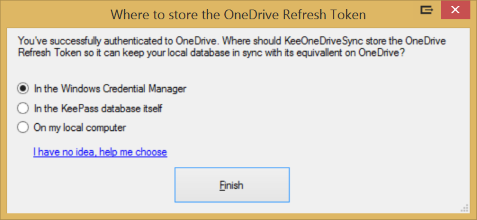
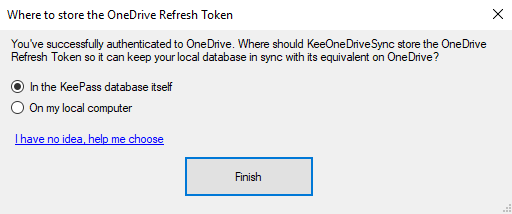
Updating documentation to take out the Windows Credential Manager option

diff --git a/OneDriveRefreshToken.md b/OneDriveRefreshToken.md
@@ -16,40 +16,27 @@ This means that the Refresh Token should be kept secure and safe from anyone els
 
 ### Which options do I have
 
-You can choose from the following three options:
+You can choose from the following two options:
 
-1. Store the Refresh Token in the Windows Credential Manager
-2. Store the Refresh Token in the KeePass database itself
-3. Store the Refresh Token int he KeePass configuration file on your PC
+1. Store the Refresh Token in the KeePass database itself
+2. Store the Refresh Token int he KeePass configuration file on your PC
 
-I will explain each option below. If you don't really care about the details, just go with the default option 1 which will suit most users in most scenarios.
+I will explain both options below. If you don't really care about the details, just go with the default option 1 which will suit most users in most scenarios.
 
-#### 1. Windows Credential Manager
+#### 1. KeePass database
 
-The Windows Credential Manager has been around in Windows for a while already. It allows an user to securely store credentials in the Windows password vault. These credentials are linked to your Windows account and thus only accessible by you and not by other people who may be using the same PC with their own login credentials.
-
-You can find the Windows Credential Manager in the Windows Configuration Panel under User Accounts. Here you should see Credential Manager.
-
-![](./Screenshots/CredentialManagerControlPanel.png)
-
-Here you'll find a variety of credential stored in the Windows password vault. If you choose this option for KeeOneDriveSync, you'll find an entry for each of your KeePass databases under Windows Credentials and then Generic Credentials. The entries their names will start with "KoenZomers.KeePass.OneDriveSync:" followed by the full local path to the KeePass database. The password will contain the OneDrive Refresh Token. If you delete the entry, you effectively delete the OneDrive Refresh Token which means that next time you're trying to open the KeePass database, it will ask you to authenticate to OneDrive again so it can recreate the entry in the Windows Credential Manager.
-
-This option will be best for most users in most scenarios as it's a very secure way to store the OneDrive Refresh Token.
-
-#### 2. KeePass database
-
-Another option is to store the OneDrive Refresh Token in the encrypted KeePass database itself. Only after unlocking the KeePass database by using whichever means you've set it to (password, certificate, windows credentials), the OneDrive Refresh Token will be accessible by the plugin to be used.
+The first option is to store the OneDrive Refresh Token in the encrypted KeePass database itself. Only after unlocking the KeePass database by using whichever means you've set it to (password, certificate, windows credentials), the OneDrive Refresh Token will be accessible by the plugin to be used.
 
 This means that the OneDrive Refresh Token is part of the KDBX file. If you copy the file over to someone else (i.e. a co-worker), you are effectively copying the OneDrive Refresh token to your OneDrive along with it. This might not be what you want to happen. If the other user opens the KeePass database and doesn't have the KeeOneDriveSync plugin installed in KeePass, nothing happens for that user and the database will function as normal. If that user does have the KeeOneDriveSync plugin installed as well, it will prompt again to authenticate to OneDrive. It will NOT reuse the token that it already has stored in the KeePass database for security reasons. Technically however if the other user has access to the KeePass database, the user could write its own code to fetch the OneDrive Refresh Token from the database. Bit of a long shot, but technically possible.
 
-So if you intend to share your KeePass database with others and you don't want them to sync it to the same OneDrive location, do not use this option and choose one of the other options.
+So if you intend to share your KeePass database with others and you don't want them to sync it to the same OneDrive location, do not use this option and choose the second option.
 
-#### 3. KeePass Configuration File
+#### 2. KeePass Configuration File
 
 Located under %APPDATA%\KeePass (enter it like this in Windows Explorer) KeePass by default stores a configuration file as KeePass.config.xml.
 
-If you choose this option, the OneDrive Refresh Token will be stored PLAIN TEXT in this configuration file. This was the only available option up to version 1.3 of the KeeOneDriveSync plugin. This means that if anyone can access your computer remotely, i.e. you have a virus or trojan or you're sharing your PC with others and the others have local Administrator rights on the same PC, they can access this file and open it up in any text editor like NotePad and retrieve your OneDrive Refresh Token from it which then gives them full access to your complete OneDrive.
+If you choose this option, the OneDrive Refresh Token will be stored PLAIN TEXT in this configuration file. This means that if anyone can access your computer remotely, i.e. you have a virus or trojan or you're sharing your PC with others and the others have local Administrator rights on the same PC, they can access this file and open it up in any text editor like NotePad and retrieve your OneDrive Refresh Token from it which then gives them full access to your complete OneDrive.
 
 This option can be used if you're the only one using your PC and you feel safe that nobody can access files stored in your user profile on your PC.
 
-Note that the KeePass.config.xml file will always contain the other configuration settings of your KeePass database, even if you choose to store the OneDrive Refresh Token using one of the other two methods. In that case the RefreshToken attribute in the config file will show null as it's being fetched from another location. The other information is not sensitive information, thus can perfectly be stored in this file.
+Note that the KeePass.config.xml file will always contain the other configuration settings of your KeePass database, even if you choose to store the OneDrive Refresh Token using the first method. In that case the RefreshToken attribute in the config file will show null as it's being fetched from another location. The other information is not sensitive information, thus can perfectly be stored in this file.
